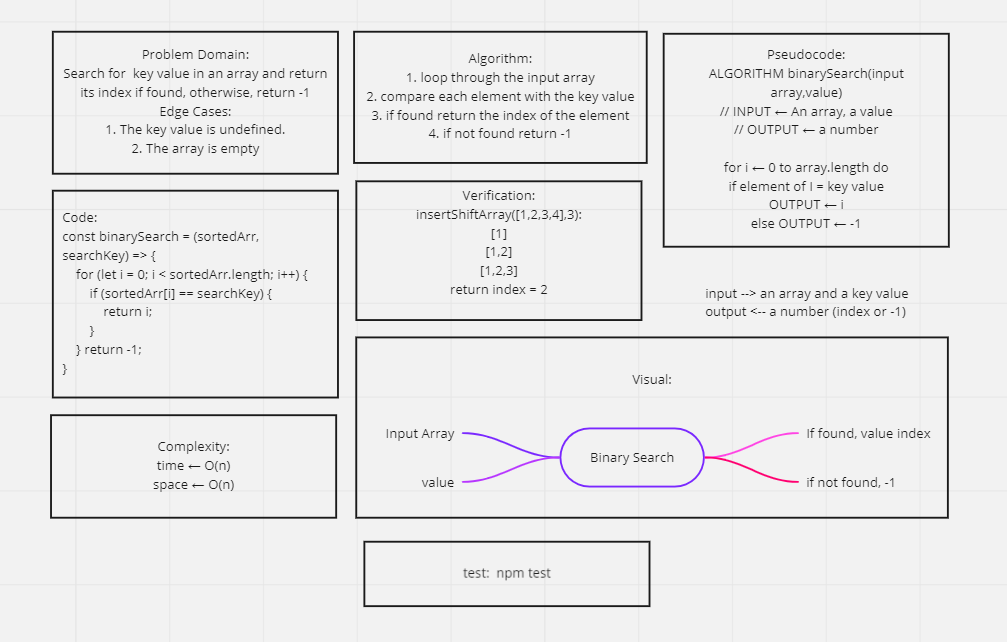
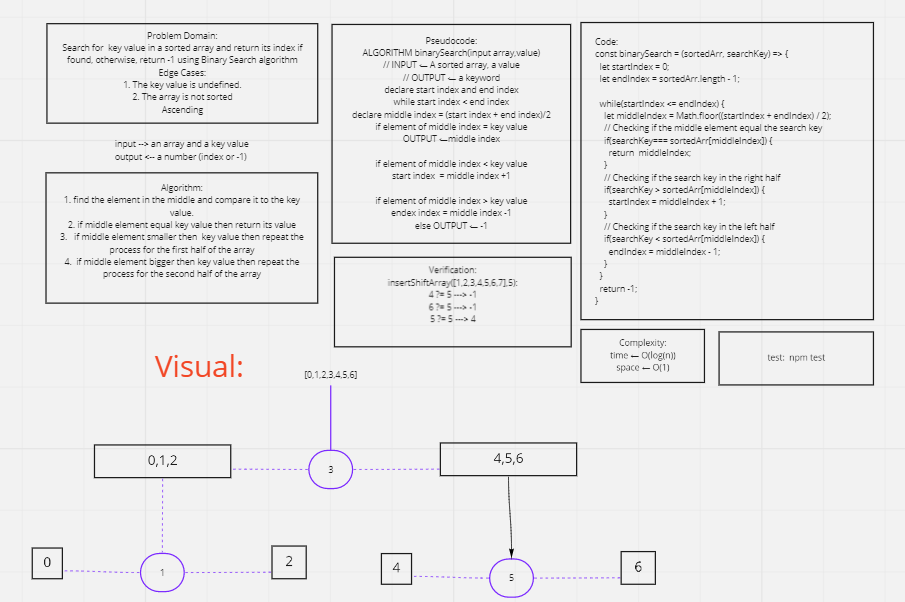
Binary Search

diff --git a/challenges/__tests__/array-binary-search-test.js b/challenges/__tests__/array-binary-search-test.js
@@ -8,6 +8,5 @@ describe('Testing array binary search', () => {
         expect(binarySearch([], 16)).toStrictEqual(-1);
         expect(binarySearch([5,6,7,8],0)).toStrictEqual(-1);
         expect(binarySearch([-1,3,4,7],-1)).toStrictEqual(0);
-
     });
 });

diff --git a/challenges/README.md b/challenges/README.md
@@ -26,13 +26,13 @@ White Board Image:
 ![](assets/ArrayShift.png)
 
 # Binary Search Array
-Search for a value in an array
+Search for a value in an array using Binary search algorithm.
 
 ## Challenge Description
-search for a key value in an array, when found return its index , other wise return -1
+search for a key value in an array, when found return its index , other wise return -1 using binary search
 
 ## Approach & Efficiency
-The approach was to loop of the array and when an element equals the key value, return its index. In case not found, or the array is empty, or the key value is undefined, return -1.
+The approach was to split the array in two halves, check if the element at the middle equals the key value, if not and bigger repeat the process for the right half. If not and smaller repeat the process for the left half. Return its index if found or -1 otherwise.
 
 ## Solution
 White Board Image:
